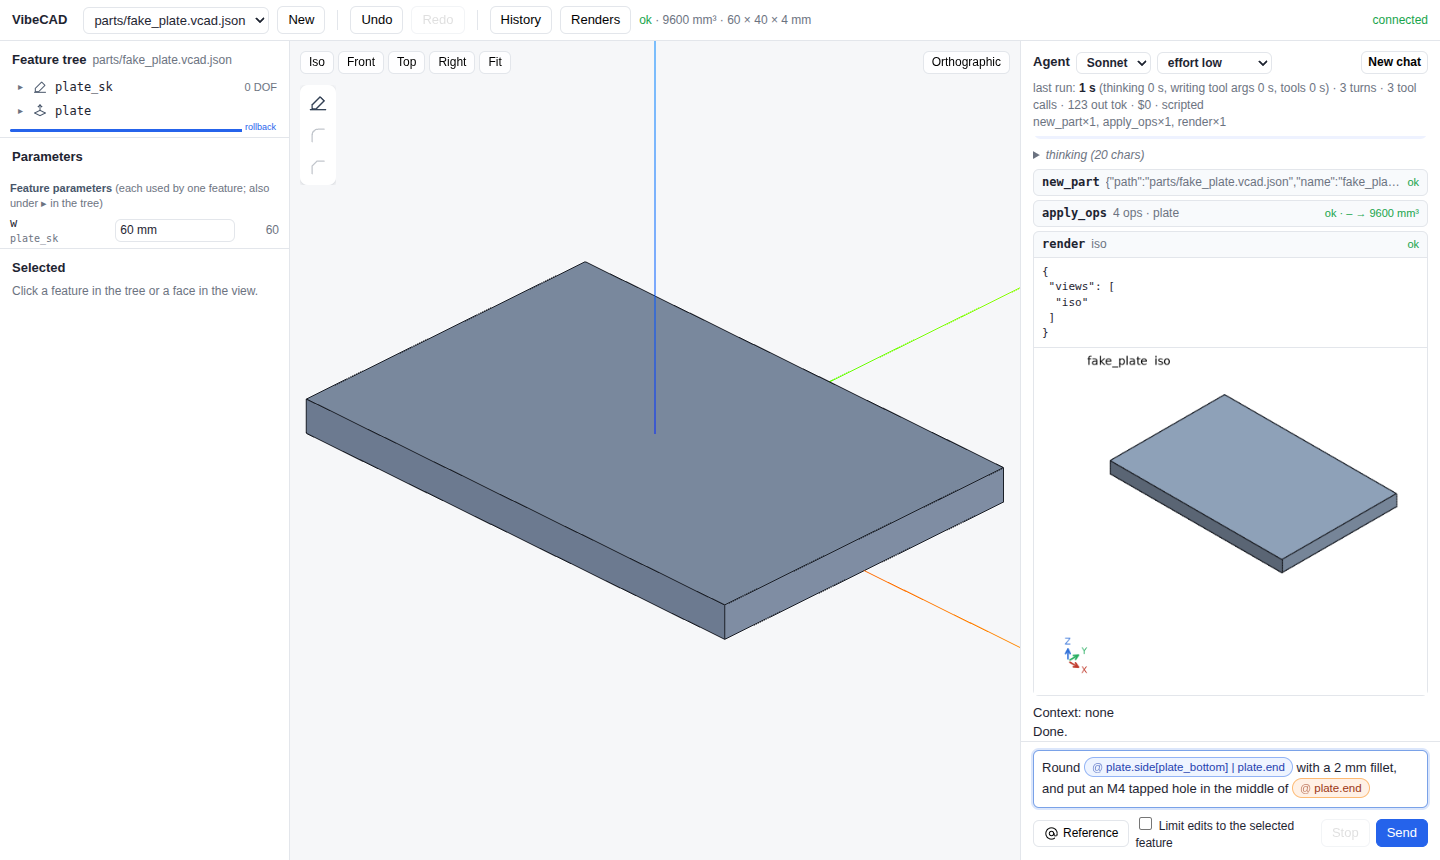
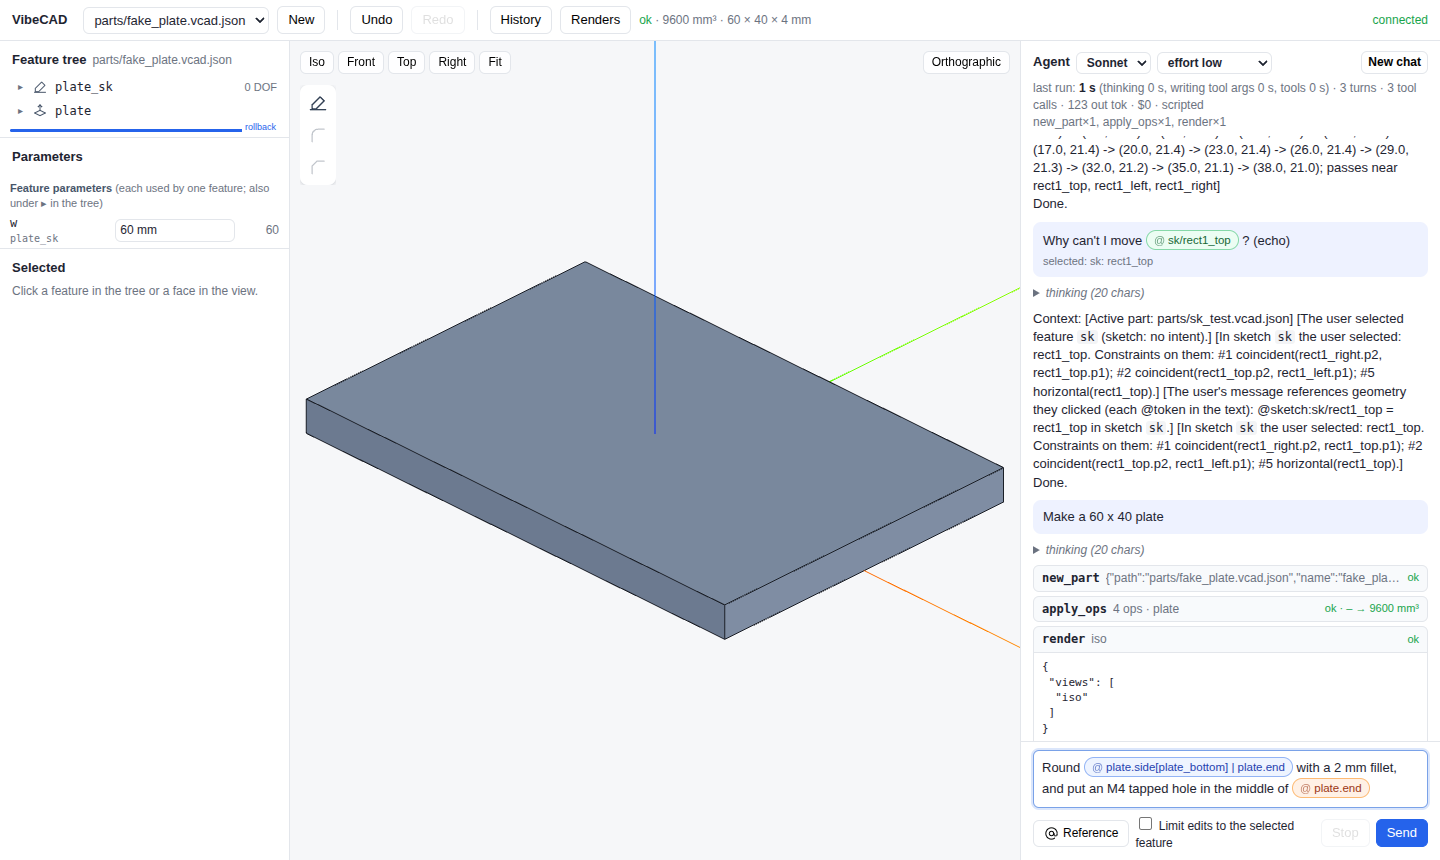
Sketch: arc radius leader a third of the way along the arc, off the axis line
Claude-Session: https://claude.ai/code/session_01SRATcLwogJ5xj5GizYYcMd

Changed region(s): [[0.7188, 0.1512, 1.0, 0.8767]]

diff --git a/core/vibecad/static/sketch.js b/core/vibecad/static/sketch.js
@@ -189,7 +189,9 @@ export function createSketchEditor(ctx) {
     let a, b;
     if (c.type === "diameter" || c.type === "radius") {
       if (!e0?.center) return null;
-      const ang = e0.type === "arc" ? (((e0.start_angle + e0.end_angle + (e0.end_angle < e0.start_angle ? 360 : 0)) / 2) * Math.PI) / 180 : Math.PI / 4;
+      // an arc's leader sits a third of the way along it, off the symmetry axis (where the sketch axes usually run)
+      const sweep = e0.type === "arc" ? (e0.end_angle - e0.start_angle + 360) % 360 || 360 : 0;
+      const ang = e0.type === "arc" ? ((e0.start_angle + sweep * 0.35) * Math.PI) / 180 : Math.PI / 4;
       const u = [Math.cos(ang), Math.sin(ang)], rim = add(e0.center, mul(u, e0.r)), out = add(e0.center, mul(u, e0.r + off * 0.8));
       if (c.type === "diameter") { const rim2 = sub(e0.center, mul(u, e0.r)); segs.push([rim2, out]); arrow(rim, u); arrow(rim2, mul(u, -1)); }
       else { segs.push([e0.center, out]); arrow(rim, u); }
